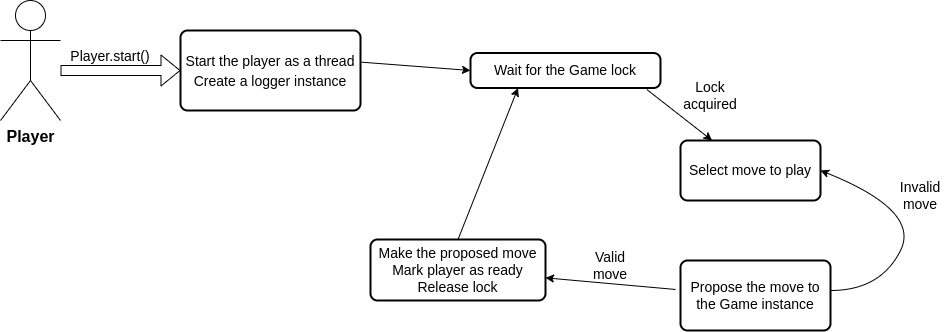
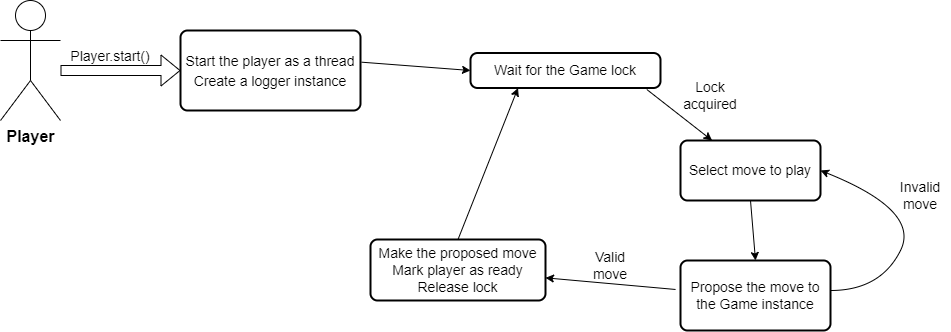
Fixed typos

diff --git a/README.md b/README.md
@@ -169,30 +169,36 @@ The games are parallelized by using the `multiprocessing` library Pool. The game
 
 The speed of the simulation depends on the parallelization, algorithms used, and whether we are collecting data vectors. The bots using neural networks are considerably slower than the other bots. A tensorflow .h5 file must be converted to a .tflite file, to be used in the simulation. This is done by the `Analysis/convert-to-tflite.py` script. The tflite models are MUCH smaller and faster than using a tensorflow model.
 
+![game-flowchart](Game-diagram.png)
+*Flowchart of the games logic after starting a simulation.*
+
 #### **Agents**
+
+![player-flowchart](player-diagram.png)
+*Flowchart of the players logic. Abstract classes implement everything, except selecting the move to play.*
 
 The agents can either implement `Moska/Player/AbstractEvaluatorBot.py` or `Moska/Player/AbstractPlayer.py`.
 
 **AbstractPlayer**
 
 The `AbstractPlayer` is the base class of all agents. It contains the general logic of the player, and some helper methods. The following logic needs to be implemented by the subclasses of `AbstractPlayer`:
-- choose_move(playable_moves : List[str]) -> str
-- end_turn() -> List[Card]
-- play_fall_card_from_hand() : Dict[Card,Card]
-- deck_lift_fall_method(card_from_deck : Card) -> (Card,Card)
-- play_to_self() -> List[Card]
-- play_initial() -> List[Card]
-- play_to_target() -> List[Card]
+- `choose_move(playable_moves : List[str]) -> str`
+- `end_turn() -> List[Card]`
+- `play_fall_card_from_hand() : Dict[Card,Card]`
+- `deck_lift_fall_method(card_from_deck : Card) -> (Card,Card)`
+- `play_to_self() -> List[Card]`
+- `play_initial() -> List[Card]`
+- `play_to_target() -> List[Card]`
 
 The agents implementing the `AbstractPlayer` class can try to play illegal moves if the methods are implemented incorrectly, but they should eventually be designed to only make valid moves, to improve performance. Also, if the player is fully deterministic, and it can make invalid moves, the game will timeout, because an Agent is only making invalid moves and the game will never end, since the agent will get into a loop of attempting to play the same move.
 
-Agents only implementing the AbstractPlayer, can be made significantly faster than the `AbstractEvaluatorBot`.
+Agents only implementing the AbstractPlayer, can be made significantly faster than the `AbstractEvaluatorBot`, because they do not need to generate all possible plays.
 
 **AbstractEvaluatorBot**
 
-The `AbstractEvaluatorBot` class is a subclass of `AbstractPlayer`. It creates all the next states (`FullGameState` instances), from the current state. It has all the necessary logic to play, however an `evaluate_states(List[FullGameState])` method must be implemented. This method takes a list of game states, and returns a list of scores for each game state. The game state with the highest score is then played.
+The `AbstractEvaluatorBot` class is a subclass of `AbstractPlayer`. It creates all the possible next states (`FullGameState` instances), from the current state. It has all the necessary logic to play, however an `evaluate_states(List[FullGameState])` method must be implemented. This method takes a list of game states, and returns a list of scores for each game state. The game state with the highest score is then played.
 
-Agents implemented with the `AbstractEvaluatorBot` class are slower, but easier to make and understand. They are slower, because they generate all the possible next states, and then evaluate them. Some of the problems can have very large search spaces.
+Agents implemented with the `AbstractEvaluatorBot` class are slower, but easier to make and understand. They are slower, because they generate all the possible next states, and then evaluate them. For large hands, the number of states can be very large, since for example choosing which cards to fall with which cards is an NP-hard problem. [The Complexity of Playing Durak](https://www.ijcai.org/Proceedings/16/Papers/023.pdf).
 
 ### **Players based on heuristics**
 These players calculate scores based on heuristics, and choose the move with the highest score. The heuristics are fairly simple. They contain some weightings, and the weighings have been optimized with scipy, by simulating thousands of games with different weightings, and choosing the best weightings to minimize the chance to lose.
